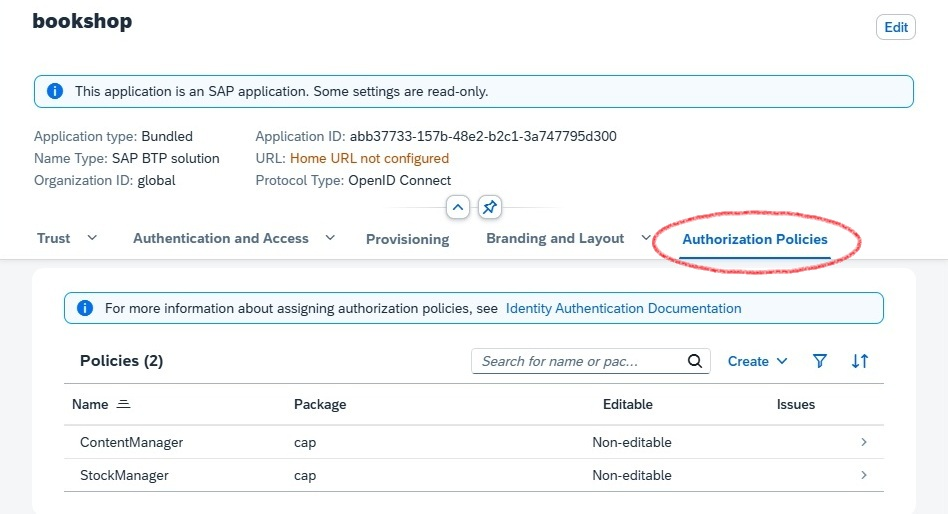
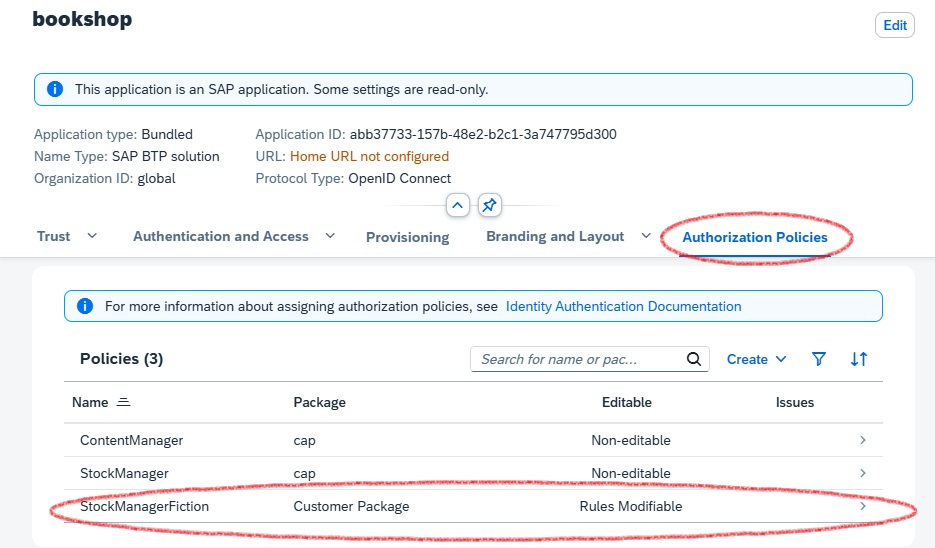
finalized AMS

diff --git a/guides/security/cap-users.md b/guides/security/cap-users.md
@@ -584,6 +584,20 @@ You can now perform following tasks in the Administrative Console for the IAS te
 - Assign (base or custom) policies to IAS users
 - Create custom policies
 
+To create a custom policy with filter restrictions do the following steps:
+1. Select **Applications & Resources** > **Applications**. Pick the IAS application of your project from the list.
+2. In **Authorization Policies** select **Create** > **Create Restriction**. Choose an appropriate policy name, e.g. `StockManagerFiction`.
+2. Customize the filter condition for the AMS attributes available
+3. Press **Save**
+
+::: details Create custom AMS policy with filter condition
+
+![AMS custom policies in Administrative Console](assets/ams-custom-policy.jpg)
+
+![AMS custom policy filters in Administrative Console](assets/ams-custom-policy-filter.jpg)
+
+:::
+
 To assign a policy to an IAS user do the following steps:
 1. Select **Applications & Resources** > **Applications**. Pick the IAS application of your project from the list.
 2. Switch to tab **Authorization Policies** and select the policy you want to assign
@@ -597,36 +611,23 @@ To assign a policy to an IAS user do the following steps:
 
 :::
 
-To create a custom policy with filter restrictions do the following steps:
-1. In **Authorization Policies** select **Create** > **Create Restriction**. Choose an appropriate policy name, e.g. `StockManagerFiction`.
-2. Customize the filter condition for the AMS attributes available
-3. Press **Save**
 
-::: details Create custom AMS policy with filter condition
-
-![AMS custom policies in Administrative Console](assets/ams-custom-policy.jpg)
-
-![AMS custom policy filters in Administrative Console](assets/ams-custom-policy-filter.jpg)
-
-:::
-
-You can now assign the custom policy to the test user.
+You can log on to the bookshop test application with the test user and check that only books of dedicated genres can be modified.
 
 [Learn more about AMS policy assignment](https://help.sap.com/docs/cloud-identity-services/cloud-identity-services/assign-authorization-policies) {.learn-more}
 
 
 
 
-
 ### Tracing & Troubleshooting
 
-You can recognize a correct AMS plugin configuration by the following log output:
+You can verify a valid configfuration of the AMS plugin by the following log output:
 
 ```sh
 c.s.c.s.a.c.AmsRuntimeConfiguration      : Configured AmsUserInfoProvider
 ```
 
-For detailed analysis of issues, you can set AMS logger to `DEBUG` level: 
+In addition, for detailed analysis of issues, you can set AMS logger to `DEBUG` level: 
 
 ```yaml
 logging:
@@ -634,7 +635,7 @@ logging:
         com.sap.cloud.security.ams: DEBUG
 ```
 
-which gives you more information about the policy evaluation at request time.
+which gives you more information about the policy evaluation at request time:
 
 ```sh
 c.s.c.s.a.l.PolicyEvaluationSlf4jLogger  : Policy evaluation result: {...,
